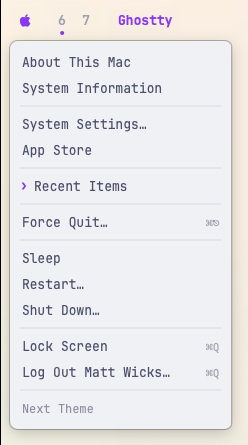
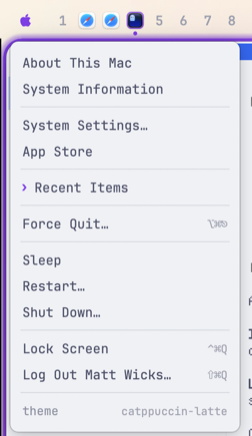
Reshoot the popups, and correct what the README says about them
Every popup screenshot showed a layout that has since changed: the
GitHub marks, the AI panel, the wi-fi list, the battery rows, the
calendar and the Apple menu. The text had drifted with them, in the
pill descriptions, the mark lists, the AirPods plug and the AI panel's
sections.

The new shots are framed from the top of the bar down, so each one
shows the pill that opens it, and they are taken without the optional
glass, which is the default look. The wi-fi shot blacks out the
addresses and the phone names, as the old one did.

diff --git a/README.md b/README.md
@@ -147,7 +147,8 @@ Left to right:
 - **Apple menu**: the real one, read over Accessibility. About This
   Mac, System Settings, Recent Items (with app and file-type icons
   resolved locally, because AX exposes none), Force Quit and the power
-  verbs, plus Omacchiato's Next Theme at the bottom.
+  verbs, plus Omacchiato's theme row at the bottom, which names the
+  theme you are on and moves to the next one.
 - **Workspaces**: one capsule per display, showing only that display's
   workspaces. A chip shows the icons of up to three apps on the
   workspace, fanned like a hand of cards, or the workspace's digit when
@@ -164,9 +165,9 @@ Left to right:
   left cluster on a notched one, and hides when Music is not running.
   Click the title to open Music.
 
-![The Apple menu popup: About This Mac, System Information, System Settings, App Store, Recent Items, Force Quit, Sleep, Restart, Shut Down, Lock Screen, Log Out and Omacchiato's Next Theme at the bottom](docs/screenshots/popup-apple.png)
+![The Apple menu popup under its pill: About This Mac, System Information, System Settings, App Store, Recent Items, Force Quit, Sleep, Restart, Shut Down, Lock Screen, Log Out, and Omacchiato's theme row naming the current theme at the bottom](docs/screenshots/popup-apple.png)
 
-![Right end of the bar: the menu bar apps grid, the Claude and GitHub plugin pills, wi-fi, battery, the clock and the activity pill](docs/screenshots/bar-right.png)
+![Right end of the bar: the menu bar apps grid, the Claude usage pill at 5%, the keep-awake cup, the GitHub pill with two open pull requests, wi-fi, battery with three hours left, the date and time, and the activity pill](docs/screenshots/bar-right.png)
 
 - **Menu bar apps**: the grid pill lists the third-party apps that have
   an icon in the hidden macOS menu bar. Clicking a row gives that icon
@@ -210,12 +211,12 @@ Left to right:
 
 <table>
   <tr>
-    <td valign="top"><img src="docs/screenshots/popup-menubar.png" alt="The menu bar apps popup: one row per third-party app that has an icon in the hidden menu bar, an opens app note on the rows whose icon the notch hides, and a Show menu bar row with the ⌃F8 shortcut"></td>
-    <td valign="top"><img src="docs/screenshots/popup-wifi.png" alt="The wi-fi popup: the network name, the IP and the router (blacked out here), signal -57 dBm rated good, link 360 Mbps on WPA3, channel 44 on 5 GHz at 40 MHz, and a network settings row"></td>
+    <td valign="top"><img src="docs/screenshots/popup-menubar.png" alt="The menu bar apps popup: one row per third-party icon in the hidden menu bar, sorted by app name, two OneDrive icons told apart by their own labels, an opens app note on the rows whose icon the notch hides, and a Show menu bar row with the ⌃F8 shortcut"></td>
+    <td valign="top"><img src="docs/screenshots/popup-wifi.png" alt="The wi-fi popup: the network name, the IP and the router (blacked out here), signal -43 dBm rated excellent, link 2401 Mbps on WPA2, channel 48 on 5 GHz at 160 MHz, then the networks in range with a tick on the one in use, then the iPhones that can share a hotspot with their battery (names blacked out here), and a network settings row"></td>
   </tr>
   <tr>
-    <td valign="top"><img src="docs/screenshots/popup-battery.png" alt="The battery popup: a full charge bar, charged on AC, a 60 W adapter, health 98% rated good, 49 cycles, and a Battery Settings row"></td>
-    <td valign="top"><img src="docs/screenshots/popup-clock.png" alt="The clock popup: a month calendar with the current week highlighted and today marked, and the week number below it"></td>
+    <td valign="top"><img src="docs/screenshots/popup-battery.png" alt="The battery popup: the title row carrying a charge bar and 63%, on battery with 4h 25m left, low power mode, 9.5 W draw, health 99%, 50 cycles, and a Battery Settings row"></td>
+    <td valign="top"><img src="docs/screenshots/popup-clock.png" alt="The clock popup: the month and its week number, a grid of days with today in a filled circle, and today's remaining events under it, each with the colour of the calendar it belongs to"></td>
   </tr>
 </table>
 
@@ -244,11 +245,13 @@ popup rows, and the bar draws the result. The format is under
   days and active hours.
 - **GitHub pull requests** (`omacchiato-github-prs`): the pill counts your
   open PRs and adds `!` when one has an unread notification. The popup
-  groups them by repository, marks each with what it needs next
-  (📝 draft, 💥 CI failed or conflicts, 🏗 CI running, 💬 feedback to
-  resolve, ✅ ready to merge, ⏳ waiting for a review) and says what it
-  waits for. A PR based on another PR in the list sits under it,
-  indented and marked `↳`.
+  groups them by repository and marks each with what it needs next: a
+  pencil for a draft, a red warning for a failed check or a merge
+  conflict, a yellow clock for a running check, a yellow comment for
+  feedback to resolve, a green check for approved, and a muted clock
+  for waiting. A sentence follows only where it says more than the
+  mark. A PR based on another PR in the list sits under it, indented
+  and marked `↳`.
 - **Keep awake** (`omacchiato-keep-awake`): a cup while something holds
   the Mac awake, nothing otherwise. It reads the power assertions
   rather than any app's saved setting, ignores the ones the system
@@ -262,8 +265,8 @@ popup rows, and the bar draws the result. The format is under
 
 <table>
   <tr>
-    <td valign="top"><img src="docs/screenshots/popup-claude.png" alt="The AI usage popup, from before it read other providers: the Claude Code status row, the five-hour session window at 43% with a tick at the time elapsed, the weekly window for all models and for one model, extra usage credits, and the last seven days from tokscale as tokens and cost per day and per model"></td>
-    <td valign="top"><img src="docs/screenshots/popup-github.png" width="540" alt="The GitHub pull requests popup: open PRs grouped by repository with a count per group, an hourglass mark and a Waiting for a first review line under each, and stacked PRs indented under their base. Repository names and titles are blacked out here"></td>
+    <td valign="top"><img src="docs/screenshots/popup-claude.png" alt="The AI usage popup: a header per provider with its logo, its plan in small quiet type, and its usage and reset time; the Claude section open with one row per window, each a bar with a tick at the time elapsed; Codex and Copilot closed; and a closed section for the last seven days at API prices"></td>
+    <td valign="top"><img src="docs/screenshots/popup-github.png" width="540" alt="The GitHub pull requests popup: open PRs grouped by repository with a count per group, one row each with a clock mark for waiting, and a row that opens all pull requests on GitHub"></td>
   </tr>
 </table>
 
@@ -682,11 +685,10 @@ pill's colour and give it a popup:
   "label": "10% - 2h 6m",
   "color": "green",
   "rows": [
-    {"text": "Claude", "hero": true},
+    {"text": "Claude", "subtitle": "Max 5x", "detail": "10% · 2h 6m", "hero": true},
     {"separator": true},
-    {"text": "Session", "detail": "10%"},
-    {"text": "5-hour window", "slider": 0.1, "marker": 0.58},
-    {"text": "Resets in 2h 6m", "dim": true}
+    {"text": "Session", "bar": 0.1, "marker": 0.58, "bar_color": "green",
+     "detail": "10% · 2h 6m"}
   ]
 }
 ```
@@ -783,16 +785,22 @@ Copilot logos are black or white, so they take the theme's label
 colour. The percents are green under 50%, yellow under 80% and red
 above.
 
-The popup has one section for each `--panel` provider, and all sections
-start closed. Click a header to open its section. If tokscale reports
-more than one Codex account, each account gets a section. The header
-shows the provider's logo, its name and the plan. The section shows the service status and each usage window. Each
-window has a bar with a tick at the share of the window that has
-passed, and its colour compares the two: green at or near an even
-pace, yellow more than 5 points ahead, and red more than 20 points
-ahead or at 90% used.
+The popup has one section for each `--panel` provider. The first opens
+with the popup and the rest start closed; click a header to open one.
+If tokscale reports more than one Codex account, each account gets a
+section. A header carries the provider's logo, its name, the plan in
+small quiet type, and the usage and reset of the five-hour window, so a
+closed section still answers the question you opened the popup for.
 
-The status row reads the provider's components on its status page:
+Inside, each usage window takes one row: its name, a bar, and the
+percent with the time until it resets. The bar has a tick at the share
+of the window that has passed, and the bar's colour compares the two:
+green at or near an even pace, yellow more than 5 points ahead, and red
+more than 20 points ahead or at 90% used. A window whose plan carries
+no limit is left out.
+
+A status row appears only while a provider is not operational. It reads
+the provider's components on its status page:
 Claude Code on status.claude.com, the Codex components on
 status.openai.com, and Copilot on githubstatus.com. It ignores the
 page's overall rating, which also drops when another product of that
@@ -837,8 +845,10 @@ last row opens Sound settings. With two devices connected, each device
 is a section that starts closed.
 
 Nothing on the Mac reports whether AirPods charge. A cable to this Mac
-is the closest fact, so the script marks the battery row with 🔌 while
-`ioreg` lists the AirPods as a USB device with the same serial number.
+is the closest fact, so a row under the batteries says the AirPods are
+plugged into this Mac while `ioreg` lists them as a USB device with the
+same serial number. It is a row of its own, because a mark on one
+battery read as that side charging.
 A wall charger stays invisible. While the cable carries the audio, the
 noise control rows drop out: airpods-control controls a device only
 over Bluetooth.
@@ -885,13 +895,19 @@ U+F407.
 Each PR gets one mark, for what it needs next. If more than one
 applies, the first in this list wins:
 
-- 📝 a draft
-- 💥 CI failed, or the branch has merge conflicts
-- 🏗 CI is running
-- 💬 feedback to resolve: changes requested, or a review thread from
-  someone else that nobody has resolved
-- ✅ ready to merge: approved, with passing checks and no conflicts
-- ⏳ waiting for a review
+- a pencil: a draft
+- a red warning: CI failed, or the branch has merge conflicts
+- a yellow clock: CI is running
+- a yellow comment: feedback to resolve, which is changes requested or
+  a review thread from someone else that nobody has resolved
+- a green check: ready to merge, approved with passing checks and no
+  conflicts
+- a muted clock: waiting for a review
+
+Under the mark, a sentence appears only where it says more than the
+mark does: a merge conflict, a failed check, changes requested, or the
+number of threads left to resolve. A pull request that is only waiting
+takes one row.
 
 The pill turns red while CI fails on any open PR. Clicking a PR row or
 the line under it opens the PR. To drop a PR from the list,
@@ -900,7 +916,8 @@ unsubscribe from its notifications on GitHub.
 An update is an unread GitHub notification on the PR. GitHub marks the
 notification read when you open the PR, so the `!` goes at the next
 run after you look. A PR merged (🟣) or closed (⚫) in the last week
-stays in the list while its notification is unread. To find those
+stays in the list, with a merge glyph or an x, while its notification
+is unread. To find those
 notifications the script reads every page of your unread inbox, about
 half a second per 50, while the search runs. If GitHub is out of
 reach, the popup keeps the last list and says when it was fetched.
